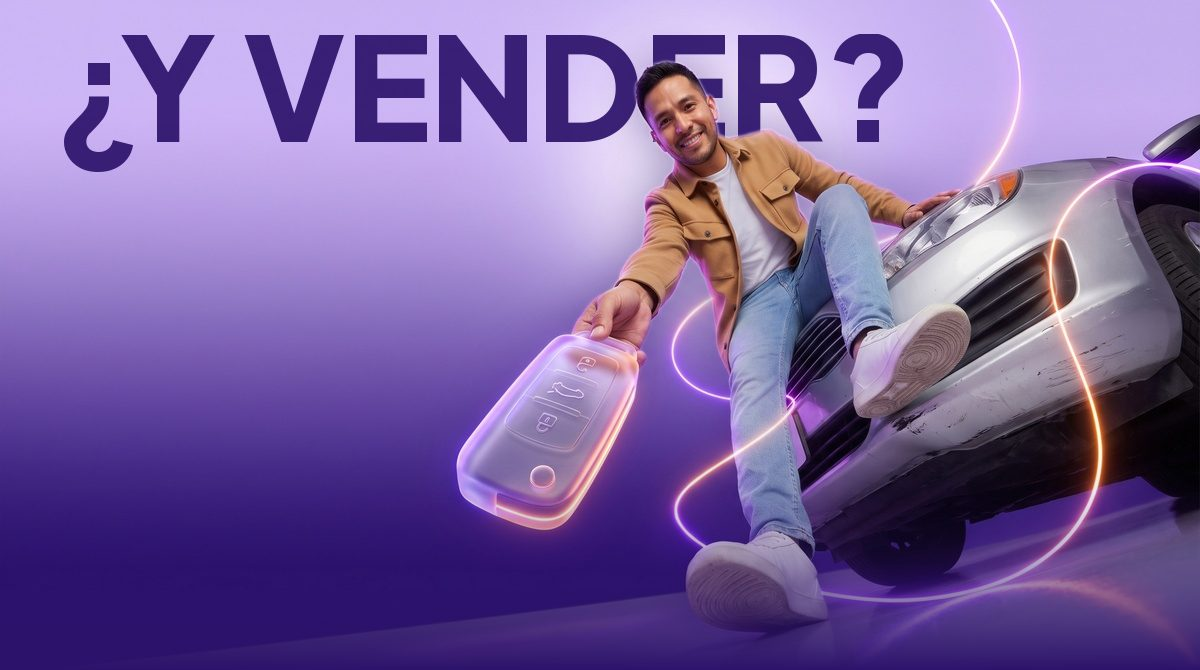
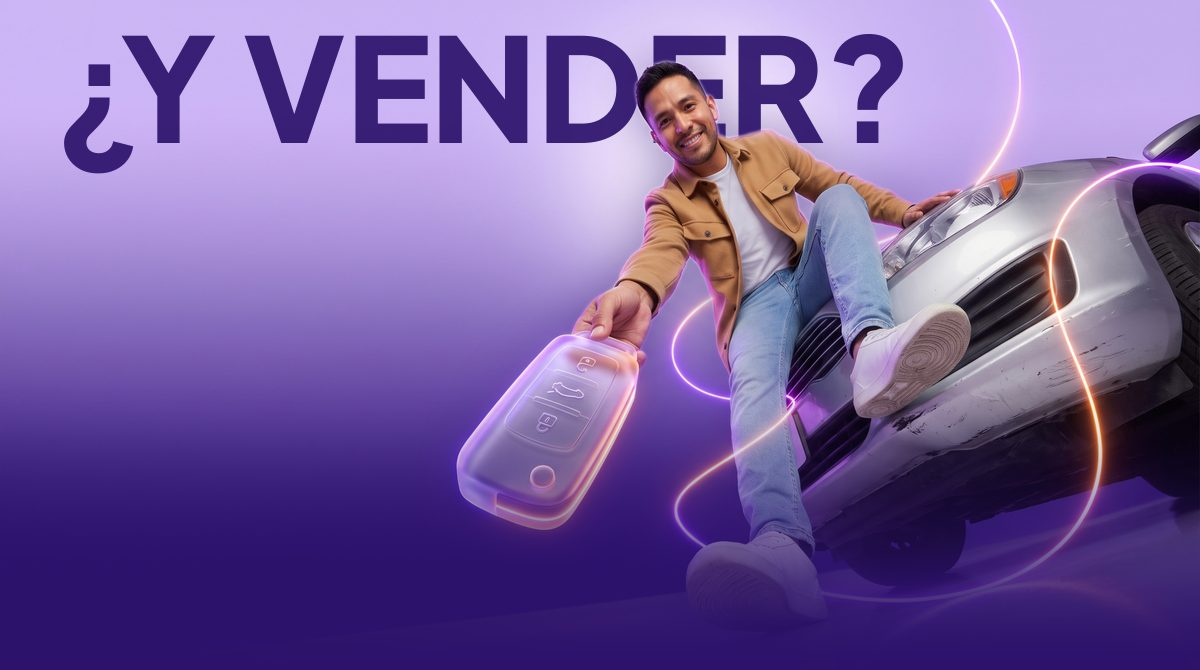
feat(correos): Revendedores — hero integrado al correo y recorte móvil
Pedido de Julio: los banners de arriba se sentían una foto pegada. Mismas fotos
de Flow y mismo texto; cambia solo la composición del hero:
- Fundido largo (smoothstep sobre el 45 % inferior) de la foto al tono de su
  tarjeta: desaparece la franja donde terminaba la imagen (muy visible en 4 y 6).
- Sombra de la tarjeta teñida con el color de cada correo (antes era morada
  también sobre las tarjetas verde y marrón).
- Versión móvil (-m.jpg, ≤480 px): recorte casi cuadrado centrado en persona,
  carro e ícono, con la palabra gigante reajustada; persona ~1.7x más grande.
  Se intercambia por media query; Outlook (mso) se queda con la de escritorio.
hero() acepta imgM opcional; Valoriza no cambia (sin imgM, misma sombra).
Script: flow-revendedores/poster2.py (carpeta ignorada).

diff --git a/src/emails/boletines/campanaRevendedores.ts b/src/emails/boletines/campanaRevendedores.ts
@@ -47,8 +47,9 @@ const PUBLICA_ALT = 'Publicar en Mi Garaje: recibe propuestas por solo 25 SubasC
  * (pregunta que identifica al lector o contraste compra → venta), una bajada con la acción,
  * chip «Revendedores» / «Nuevo en VMC», un solo CTA «Publicar mi carro». «Carro», tuteo,
  * sin cifras en el titular, sin jerga ni promesas de resultado.
- * Fotos de Flow del dueño (flow-revendedores/1-6.jpg) → poster.py: cada hero funde a su
- * propio tono oscuro (bg), no a #22005c. Los logos de marca se dejan tal cual (dueño 25/11).
+ * Fotos de Flow del dueño (flow-revendedores/1-6.jpg) → poster2.py: cada hero funde (fundido
+ * largo, sin franja) a su propio tono oscuro (bg), no a #22005c, y trae un recorte móvil (-m.jpg)
+ * centrado en persona + carro. Los logos de marca se dejan tal cual (dueño 25/11).
  */
 const DEFS: Def[] = [
   {
@@ -57,7 +58,7 @@ const DEFS: Def[] = [
     subject: '¿Compras por subasta para revender?',
     preheader: 'Ahora también puedes vender tu carro en VMC.',
     stage: 'Reconoce', leadsTo: ['revendedores-2-rotacion'],
-    hero: hero({ img: `${HERO}/revendedores-1.jpg`, bg: '#2c126a', alt: '¿Y vender? — Revendedor entrega la llave de su carro', eyebrow: 'Revendedores', title: `¿Compras por subasta para ${acc('revender')}?`, perks: ['Publica', 'Recibe propuestas', 'Tú decides'], text: 'Ahora también puedes vender tu carro en VMC.', cta: CTA, url: PUBLICAR_URL }),
+    hero: hero({ img: `${HERO}/revendedores-1.jpg`, imgM: `${HERO}/revendedores-1-m.jpg`, bg: '#2c126a', alt: '¿Y vender? — Revendedor entrega la llave de su carro', eyebrow: 'Revendedores', title: `¿Compras por subasta para ${acc('revender')}?`, perks: ['Publica', 'Recibe propuestas', 'Tú decides'], text: 'Ahora también puedes vender tu carro en VMC.', cta: CTA, url: PUBLICAR_URL }),
     body: [
       HOLA, gap(8),
       p(`Ya conoces VMC como comprador. ${b('Ahora también puedes vender')}, con tu misma cuenta.`),
@@ -72,7 +73,7 @@ const DEFS: Def[] = [
     subject: 'Donde compras, ahora también vendes',
     preheader: 'Publica tu carro en VMC y recibe propuestas.',
     stage: 'Beneficio', leadsTo: ['revendedores-3-como-funciona'],
-    hero: hero({ img: `${HERO}/revendedores-2.jpg`, bg: '#133239', alt: 'Mismo lugar — Revendedora sentada sobre su camioneta roja', eyebrow: 'Nuevo en VMC', title: `Donde compras, ahora ${acc('también vendes')}.`, perks: ['Compradores en VMC', 'Propuestas en Mi Garaje', 'Republica sin costo'], text: 'Publica tu carro en VMC y recibe propuestas.', cta: CTA, url: PUBLICAR_URL }),
+    hero: hero({ img: `${HERO}/revendedores-2.jpg`, imgM: `${HERO}/revendedores-2-m.jpg`, bg: '#133239', alt: 'Mismo lugar — Revendedora sentada sobre su camioneta roja', eyebrow: 'Nuevo en VMC', title: `Donde compras, ahora ${acc('también vendes')}.`, perks: ['Compradores en VMC', 'Propuestas en Mi Garaje', 'Republica sin costo'], text: 'Publica tu carro en VMC y recibe propuestas.', cta: CTA, url: PUBLICAR_URL }),
     body: [
       HOLA, gap(8),
       p(`Los compradores ya entran a VMC a buscar carros. ${b('Pon el tuyo donde ellos buscan')}.`),
@@ -87,7 +88,7 @@ const DEFS: Def[] = [
     subject: 'Valoriza, publica y recibe propuestas',
     preheader: 'Así vendes tu carro en VMC. Valorizar es gratis.',
     stage: 'Cómo funciona', leadsTo: ['revendedores-4-costos'],
-    hero: hero({ img: `${HERO}/revendedores-3.jpg`, bg: '#422515', alt: 'Publícalo — Revendedor fotografía su camioneta para publicarla', eyebrow: 'Revendedores', title: `Valoriza, publica y ${acc('recibe propuestas')}.`, perks: ['Valoriza', 'Publica', 'Negocia'], text: 'Empieza gratis: valoriza tu carro para fijar tu precio.', cta: 'Valorizar mi carro', url: VALORIZA_URL }),
+    hero: hero({ img: `${HERO}/revendedores-3.jpg`, imgM: `${HERO}/revendedores-3-m.jpg`, bg: '#422515', alt: 'Publícalo — Revendedor fotografía su camioneta para publicarla', eyebrow: 'Revendedores', title: `Valoriza, publica y ${acc('recibe propuestas')}.`, perks: ['Valoriza', 'Publica', 'Negocia'], text: 'Empieza gratis: valoriza tu carro para fijar tu precio.', cta: 'Valorizar mi carro', url: VALORIZA_URL }),
     body: [
       HOLA, gap(8),
       p(`Ya conoces Negociable como comprador. ${b('Ahora tú recibes las propuestas')}.`),
@@ -104,7 +105,7 @@ const DEFS: Def[] = [
     subject: '¿Cuánto te cobra VMC si vendes tu carro?',
     preheader: 'Un solo pago de 25 SubasCoins al publicar. Nada al vender.',
     stage: 'Costos', leadsTo: ['revendedores-5-tu-decides'],
-    hero: hero({ img: `${HERO}/revendedores-4.jpg`, bg: '#30284b', alt: '0 % — Revendedora sonríe al ver su celular dentro de su carro', eyebrow: 'Nuevo en VMC', title: `¿Cuánto te cobra VMC ${acc('si vendes')}?`, perks: ['25 SubasCoins al publicar', '0 % al vender', 'Republica sin costo'], text: 'Solo pagas 25 SubasCoins al publicar, y nada al vender.', cta: CTA, url: PUBLICAR_URL }),
+    hero: hero({ img: `${HERO}/revendedores-4.jpg`, imgM: `${HERO}/revendedores-4-m.jpg`, bg: '#30284b', alt: '0 % — Revendedora sonríe al ver su celular dentro de su carro', eyebrow: 'Nuevo en VMC', title: `¿Cuánto te cobra VMC ${acc('si vendes')}?`, perks: ['25 SubasCoins al publicar', '0 % al vender', 'Republica sin costo'], text: 'Solo pagas 25 SubasCoins al publicar, y nada al vender.', cta: CTA, url: PUBLICAR_URL }),
     body: [
       HOLA, gap(8),
       p(`Como vendedor no pagas comisión. ${b('La paga el comprador que gana')}.`),
@@ -119,7 +120,7 @@ const DEFS: Def[] = [
     subject: 'Tú decides a quién venderle',
     preheader: 'Solo te proponen compradores que consignan.',
     stage: 'Confianza', leadsTo: ['revendedores-6-cuantos'],
-    hero: hero({ img: `${HERO}/revendedores-5.jpg`, bg: '#130542', alt: 'Tú decides — Revendedor de brazos cruzados junto a su carro', eyebrow: 'Revendedores', title: `Recibes propuestas. ${acc('Tú decides.')}`, perks: ['Consignan para proponer', 'Vencen en 24 h', 'Tú eliges'], text: 'Solo te proponen compradores que consignan en VMC.', cta: CTA, url: PUBLICAR_URL }),
+    hero: hero({ img: `${HERO}/revendedores-5.jpg`, imgM: `${HERO}/revendedores-5-m.jpg`, bg: '#130542', alt: 'Tú decides — Revendedor de brazos cruzados junto a su carro', eyebrow: 'Revendedores', title: `Recibes propuestas. ${acc('Tú decides.')}`, perks: ['Consignan para proponer', 'Vencen en 24 h', 'Tú eliges'], text: 'Solo te proponen compradores que consignan en VMC.', cta: CTA, url: PUBLICAR_URL }),
     body: [
       HOLA, gap(8),
       p(`Vender por tu cuenta trae curiosos y regateos. ${b('En VMC, cada propuesta llega con respaldo')}.`),
@@ -134,7 +135,7 @@ const DEFS: Def[] = [
     subject: '¿Cuántos carros tienes esperando comprador?',
     preheader: 'Publica el primero hoy y recibe propuestas.',
     stage: 'Cierre',
-    hero: hero({ img: `${HERO}/revendedores-6.jpg`, bg: '#551e0a', alt: '¿Cuántos? — Socios revendedores entre tres carros', eyebrow: 'Nuevo en VMC', title: `Mismo lugar, distinta jugada: ${acc('ahora vendes tú')}.`, perks: ['Valoriza gratis', '25 SubasCoins una vez', '0 % al vender'], text: 'Publica tu carro hoy y recibe propuestas.', cta: CTA, url: PUBLICAR_URL }),
+    hero: hero({ img: `${HERO}/revendedores-6.jpg`, imgM: `${HERO}/revendedores-6-m.jpg`, bg: '#551e0a', alt: '¿Cuántos? — Socios revendedores entre tres carros', eyebrow: 'Nuevo en VMC', title: `Mismo lugar, distinta jugada: ${acc('ahora vendes tú')}.`, perks: ['Valoriza gratis', '25 SubasCoins una vez', '0 % al vender'], text: 'Publica tu carro hoy y recibe propuestas.', cta: CTA, url: PUBLICAR_URL }),
     body: [
       HOLA, gap(8),
       p(`Ya sabes comprar bien. ${b('Ahora vende en el mismo lugar')}.`),

diff --git a/src/emails/boletines/campanaValoriza.ts b/src/emails/boletines/campanaValoriza.ts
@@ -65,10 +65,15 @@ export const acc = (t: string) => `<span style="color:#ED8936;">${t}</span>`;
  * El efecto está horneado en la imagen (hero/valoriza-N.jpg, recortes de Abraham +
  * ~/Desktop/recortes-valoriza/poster.py), así que se ve igual en Gmail, Apple Mail y Outlook.
  */
-export function hero(o: { img: string; alt: string; eyebrow: string; title: string; text: string; cta: string; url: string; perks: [string, string, string]; bg?: string }): string {
+export function hero(o: { img: string; alt: string; eyebrow: string; title: string; text: string; cta: string; url: string; perks: [string, string, string]; bg?: string; imgM?: string }): string {
   const bg = o.bg ?? DS.v900; // bg = color al que funde la foto del hero (Revendedores: uno por foto)
-  return `${T(`bgcolor="${bg}" style="border-radius:24px;background-color:${bg};box-shadow:0 18px 40px rgba(34,0,92,0.28);"`)}
-<tr><td style="font-size:0;line-height:0;border-radius:24px 24px 0 0;overflow:hidden;"><img src="${o.img.includes('/') ? o.img : `${IMG}/hero/${o.img}`}" alt="${o.alt}" width="600" border="0" style="display:block;width:100%;max-width:100%;height:auto;border-radius:24px 24px 0 0;"></td></tr>
+  const [r, g, bl] = [1, 3, 5].map((i) => parseInt(bg.slice(i, i + 2), 16)); // sombra del mismo tono que la tarjeta
+  const src = o.img.includes('/') ? o.img : `${IMG}/hero/${o.img}`;
+  const imgStyle = 'display:block;width:100%;max-width:100%;height:auto;border-radius:24px 24px 0 0;';
+  // imgM: recorte móvil (≤480 px) centrado en la persona; Outlook (mso) nunca lo ve y se queda con el de escritorio.
+  const mob = o.imgM ? `<!--[if !mso]><!--><div class="ds-hero-m" style="display:none;max-height:0;overflow:hidden;mso-hide:all;"><img src="${o.imgM}" alt="${o.alt}" width="600" border="0" style="${imgStyle}"></div><!--<![endif]-->` : '';
+  return `${T(`bgcolor="${bg}" style="border-radius:24px;background-color:${bg};box-shadow:0 18px 40px rgba(${r},${g},${bl},0.28);"`)}
+<tr><td style="font-size:0;line-height:0;border-radius:24px 24px 0 0;overflow:hidden;"><img${o.imgM ? ' class="ds-hero-d"' : ''} src="${src}" alt="${o.alt}" width="600" border="0" style="${imgStyle}">${mob}</td></tr>
 <tr><td class="ds-hero-copy" style="padding:4px 32px 32px;font-family:${F};">
 ${T()}<tr><td valign="middle">${logo(68)}</td><td align="right" valign="middle" style="font-family:${F};font-size:11px;line-height:14px;font-weight:800;letter-spacing:0.12em;text-transform:uppercase;color:${DS.orange};">${o.eyebrow}</td></tr></table>
 <h1 class="ds-h1" style="margin:18px 0 0;font-family:${F};font-size:38px;line-height:42px;font-weight:800;letter-spacing:-0.04em;color:#ffffff;">${o.title}</h1>
@@ -154,6 +159,8 @@ table[width="600"],td[width="600"]{width:100%!important;box-sizing:border-box}
 .ds-cel-copy{padding:16px 24px 26px!important}
 td.ds-stack[width="4%"]{height:14px!important}
 .ds-h1{font-size:30px!important;line-height:34px!important}
+.ds-hero-d{display:none!important}
+.ds-hero-m{display:block!important;max-height:none!important;overflow:visible!important}
 }
 </style>`;
 
